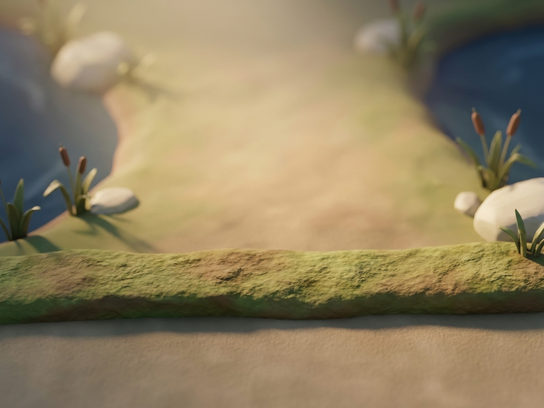
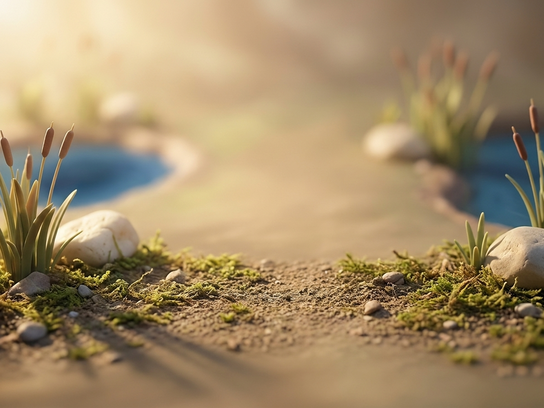
Sitting backdrops, near treatment: pond retry (3.89 MXN, fails check 11), job 2 stopped at 24.51 of 27; measures, manifest, status and the 1x proofs

diff --git a/art/station-masters/pods/sitting-backdrops-near/guides/proof-bd.py b/art/station-masters/pods/sitting-backdrops-near/guides/proof-bd.py
@@ -1,0 +1,38 @@
+"""Sitting backdrops, near treatment: the 1x proofs (studio brief 2026-10-23 22:00, proofs 8-10). 0 MXN.
+Rows, top to bottom: meadow, pond-a (cut from its raw, not in slices/), pond-b (slices/), rock, wood, cave.
+beside-near-1x.png  near-Vivarium day | the repaint with the adult anchor in Dot's look | the same with the zones of checks 11 (figure, x 192-352 y 164-324) and 13 (tag rows, x 160-384 y 348-380) outlined
+                    Dot's look = station-gate prototypes/ui/assets/stands S01-adult-304x312 base-charcoal-and-ash + patches + stripes + crest (the built anchor layers), fitted with LANCZOS
+                    once to the Habitat factor (figure 136x149), its last solid row on glass y 324, figure axis on x 272
+feet-x3.png         x 160-384, y 270-372 of each, with the mibi, x3 nearest
+cards-pair-1x.png   each repaint beside its 96 card, on #1d232b
+usage (from art/station-masters/pods): python3 -I sitting-backdrops-near/guides/proof-bd.py /home/user/sg"""
+import sys, numpy as np
+from PIL import Image, ImageDraw
+SG = sys.argv[1] + '/prototypes/ui/assets/stands/S01-adult-304x312-'
+def rgba(p): return Image.open(p).convert('RGBA')
+dot = rgba(SG + 'base-charcoal-and-ash.png')
+for part in ('patches', 'stripes', 'crest'): dot.alpha_composite(rgba(SG + part + '.png'))
+box = dot.getchannel('A').point(lambda v: 255 if v > 128 else 0).getbbox()
+sc = 149 / (box[3] - box[1]); fw, fh = round(dot.width * sc), round(dot.height * sc)
+mibi = dot.resize((fw, fh), Image.LANCZOS)
+mb = mibi.getchannel('A').point(lambda v: 255 if v > 128 else 0).getbbox()
+at = (round(272 - (mb[0] + mb[2]) / 2), 324 - (mb[3] - 1))
+def cut_raw(job):
+    im = Image.open(f'source/raw/{job}.jpg').convert('RGB'); w, h = im.size; x0 = (w - 1195) // 2
+    return im.crop((x0, 0, x0 + 1195, 896)).resize((544, 408), Image.LANCZOS)
+S = lambda p: Image.open(f'sitting-backdrops-near/slices/sitting-backdrop-{p}-544x408.png').convert('RGB')
+ROWS = [('meadow', S('meadow')), ('pond', cut_raw('sitting-backdrop-pond-near-a')), ('pond', S('pond')), ('rock', S('rock')), ('wood', S('wood')), ('cave', S('cave'))]
+near = Image.open('slices/vivarium-near-day-544x408.png').convert('RGB'); G = 8
+def with_mibi(bd):
+    c = bd.convert('RGBA'); c.alpha_composite(mibi, at); return c.convert('RGB')
+A = Image.new('RGB', (3 * 544 + 4 * G, len(ROWS) * (408 + G) + G), '#D6CEBE')
+F = Image.new('RGB', (224 * 3 + 2 * G, len(ROWS) * (102 * 3 + G) + G), '#D6CEBE')
+C = Image.new('RGB', (544 + 96 + 3 * G, len(ROWS) * (408 + G) + G), '#1d232b')
+for i, (pl, bd) in enumerate(ROWS):
+    y = G + i * (408 + G); m = with_mibi(bd); z = m.copy(); d = ImageDraw.Draw(z)
+    d.rectangle((192, 164, 351, 323), outline='#00e5ff'); d.rectangle((160, 348, 383, 380), outline='#ffe600'); d.line((0, 324, 543, 324), fill='#ff3b3b')
+    for j, im in enumerate((near, m, z)): A.paste(im, (G + j * (544 + G), y))
+    F.paste(m.crop((160, 270, 384, 372)).resize((224 * 3, 102 * 3), Image.NEAREST), (G, G + i * (102 * 3 + G)))
+    C.paste(bd, (G, y)); C.paste(Image.open(f'slices/place-{pl}-96x96.png').convert('RGB'), (2 * G + 544, y))
+A.save('sitting-backdrops-near/proof/beside-near-1x.png'); F.save('sitting-backdrops-near/proof/feet-x3.png'); C.save('sitting-backdrops-near/proof/cards-pair-1x.png')
+print('mibi', (fw, fh), 'figure', (mb[2] - mb[0], mb[3] - mb[1]), 'at', at)

diff --git a/art/station-masters/pods/sitting-backdrops-near/README.md b/art/station-masters/pods/sitting-backdrops-near/README.md
@@ -1,0 +1,33 @@
+# Sitting place backdrops, near treatment (job 2)
+
+Under the Station art director's studio brief, 2026-10-23 22:00. The programme lead's go 22:06, resumed 22:12 after the owner topped up the credits. Hard stop 27 MXN; both jobs together 66. Nothing here is signed. The signed 10-09 backdrops in `slices/` are untouched.
+
+Model `gemini-3-pro-image`, 4:3, 1K, `"tries": 1`. Refs, in order: `slices/vivarium-near-day-544x408.png` (6f0c2e64…, the treatment) and the place's 96 card (the place). Prompt as the brief, `source/work/sitting-backdrop-*-near-*.json`. Each raw came back 1200 × 896. The cut (`guides/cut-bd.py`): centre-crop 1195 × 896, LANCZOS once to 544 × 408, nothing else. Measures: `guides/measure-bd.py` (near-day reproduces 15.8 / 144.5 / 48.9 / 2.0 and zone 0.26), all rows in `guides/measures.json`.
+
+| Request | Time | MXN | detail ≥ 11 | sat 90–160 | spread ≥ 35 | key ≥ 1.3 | zone 0.12–0.35 | feet band ≥ 11 | tag std ≤ 20 / p99 ≤ 200 | Result | Job 2 / 27 | Both / 66 | Day / 250 |
+| --- | --- | --- | --- | --- | --- | --- | --- | --- | --- | --- | --- | --- | --- |
+| B1 meadow-near-a | 22:18 | 4.18 | 12.3 | 111.4 | 48.1 | 2.80 | 0.305 | 11.5 | 3.7 / 139 | **pass** | 4.18 | 12.67 | 12.67 |
+| B2 pond-near-a | 22:19 | 4.14 | **5.4** | **88.7** | 47.3 | 1.38 | 0.335 | **4.1** | 7.3 / 153 | **fail** gate 10, check 12 | 8.31 | 16.80 | 16.80 |
+| B3 rock-near-a | 22:19 | 4.07 | **8.9** | **79.2** | 50.1 | 3.68 | 0.267 | 12.4 | 8.8 / 135 | **fail** gate 10 | 12.39 | 20.87 | 20.87 |
+| B4 wood-near-a | 22:20 | 4.00 | 14.5 | 115.1 | 53.1 | 2.27 | 0.257 | 16.4 | 19.8 / 148 | **pass** | 16.39 | 24.88 | 24.88 |
+| B5 cave-near-a | 22:20 | 4.23 | 14.5 | **82.7** | 55.6 | 1.70 | 0.305 | 20.1 | **31.9** / 181 | **fail** gate 10, check 13 | 20.62 | 29.11 | 29.11 |
+| B2 retry pond-near-b (worst gate miss first) | 22:21 | 3.89 | 11.4 | 100.5 | 48.3 | 2.06 | **0.412** | 12.0 | 19.1 / 163 | **fail** check 11 | 24.51 | 33.00 | 33.00 |
+
+Times are America/Mexico_City, 2026-10-23; Pacific day 10-23. MXN are from usageMetadata (`log/spend.json`). Bold marks a miss.
+
+**Stopped at the hard stop.** A second retry would need 24.51 + 4.80 = 29.31, over 27, so it was not sent. Rock and cave are not retried.
+
+**What is in `slices/`** (`status: new`, `signed_in: null`): meadow and wood pass gates 10 to 13. Pond is the b take, the only one past gate 10; it fails check 11 on its bright haze in the figure zone. Pond-a stays only as its raw. Rock and cave miss gate 10 on saturation (rock also on detail), and cave misses check 13 on pebbles in the tag rows. All of them are the art director's call.
+
+**Notes for the art director (studio, not checks):**
+- Meadow: the ground under the feet line is a soft, flat strip from about y 340 down. The feet band passes at 11.5, just over 11.
+- Wood: twigs cross the bottom of the figure zone at about y 285. The tag rows are at 19.8, just under 20.
+- Check 14 (reads as its card): see `proof/cards-pair-1x.png`. All five are warmer and lighter than their 96 cards.
+- Check 13 as written fails near-day itself (tag std 28.0), as the brief notes.
+
+**Proofs** (`proof/`, built by `guides/proof-bd.py`; rows meadow, pond-a, pond-b, rock, wood, cave):
+- `beside-near-1x.png`: near-day | the repaint with the adult anchor in Dot's look | the same with the figure zone (cyan), tag rows (yellow) and feet line y 324 (red). The anchor uses station-gate's built S01-adult-304x312 layers (base charcoal-and-ash + patches + stripes + crest) at the Habitat factor (figure 136 × 149), last solid row on y 324, axis x 272.
+- `feet-x3.png`: x 160–384, y 270–372 of each, with the mibi, ×3.
+- `cards-pair-1x.png`: each repaint beside its 96 card.
+
+Written 2026-10-23 22:23.

diff --git a/art/station-masters/pods/floor/S01/sitting/README.md b/art/station-masters/pods/floor/S01/sitting/README.md
@@ -21,7 +21,7 @@ Built by `guides/compose-sit.py` at 0 MXN. The stage's canvas transform (crested
 | K1a `sit-S01-adult-keys-crested-a` (re-sent after the owner's top-up, lead 22:12) | 2026-10-23 22:16 | **failed, checks 6 and 7**: all four takes (cells 2, 3, 5, 6) face RIGHT; the adult faces LEFT (cell 1's face at x 115 of the cell, the takes' at 263-327 against body centres 218-226). Neither take of either pose passes, so the sheet fails. Also: the shake takes' droplets sit on the coat. Passed: check 3 (border median 9 from #FF00FF), cell 1 in place (mean RGB difference 4.3) | 4.17 | 4.17 | 4.17 | 4.17 (10-23) |
 | K1b `sit-S01-adult-keys-crested-b` (the adult retry; adult total before it 4.17 ≤ 18.6) | 2026-10-23 22:17 | **failed, checks 6 and 7 again**: all four takes face RIGHT (by eye at 1×: every face, eye and snout on the cell's right side; cell 1 faces left). Neither take of either pose passes. Passed: check 3 (border 8 from #FF00FF), cell 1 in place (mean RGB difference 4.5). The droplets now sit mostly clear of the coat | 4.32 | 8.49 | 8.49 | 8.49 (10-23) |
 
-## Job 1 stopped (2026-10-23 22:19)
+## Job 1 stopped after K1b (request sent 22:17)
 
 Both adult K1 sheets came back with every take mirrored: the head to the right, against the brief's "adult head to the LEFT" that the prompt carries as written. The one adult retry is spent, so no adult take of either pose survives K1, and nothing was cut. Under the brief ("If no adult take of a pose survives K2–K4, stop and report. I decide before the juvenile spends"), K2a to K4a and the juvenile K1j to K4j are not run. The art director decides. The studio does not mirror a take by itself: mirroring flips the top-left light, and the facing is the art director's call. Job 1 stands at 8.49 of 39 MXN.
 
